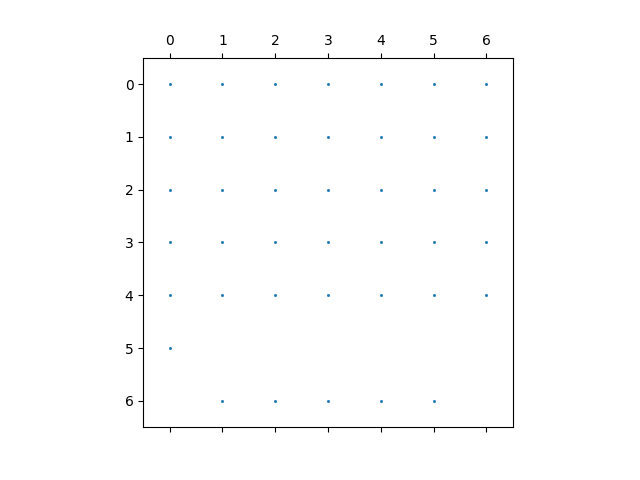
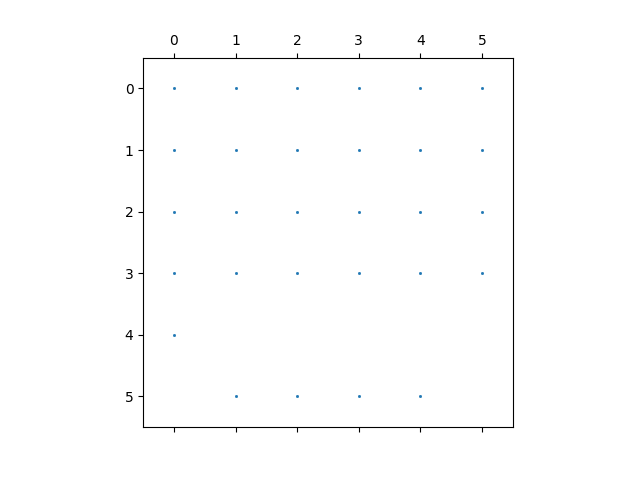
refactoring

diff --git a/chebyshev/boundary.py b/chebyshev/boundary.py
@@ -1,10 +1,7 @@
-from dataclasses import dataclass
-import logging
 import numpy.polynomial.chebyshev as cheb
 import numpy as np
-
-from chebyshev.core import BoundaryCondition
 from .element import Degree
+
 class Boundary(Degree):
     def __init__(self,degree:int) -> None:
         super().__init__(degree)
@@ -46,92 +43,3 @@ def degree_mat_multip(degvec:np.ndarray,bdrmat:np.ndarray):
     bdrdeg = degvec.reshape([1,-1,1])*np.stack([bdrmat],axis = 1)
     bdrdeg = bdrdeg.reshape([bdrdeg.shape[0],-1])
     return bdrdeg
-                      
-            
-class BoundaryConditionElementFactory:
-    def __init__(self,bc:BoundaryCondition,boundary_values:Value,outside_degree:int = 1) -> None:
-        self.boundary_condition = bc
-        self.boundary_values = boundary_values
-        self.outside_degree = outside_degree
-        
-    def generate_element(self,left_most_degree:int,right_most_degree:int):
-        
-        left_most_left = self.boundary_values.left[:left_most_degree]
-        right_most_right = self.boundary_values.right[:right_most_degree]
-        return BoundaryConditionElement(left_most_left,right_most_right,\
-            self.boundary_condition.B0,self.boundary_condition.B1,self.boundary_condition.c)
-        
-class BoundaryElementFactory(Boundary):
-    def __init__(self,degree:int) -> None:
-        self.degree = degree
-        self.center = np.empty((self.degree,self.degree),dtype = float)  
-        self.right_cross = np.empty((self.degree,self.degree),dtype = float)
-        self.left_cross = np.empty((self.degree,self.degree),dtype = float)
-        self.value = Value(degree)
-        self.filledup = False
-    def fillup(self,):
-        self.value.fillup()
-        for i,j in self.degree_index_product(2):
-            self.center[i,j] =  self.value.right[i]*self.value.right[j]/2 - self.value.left[i]*self.value.left[j]/2
-            self.right_cross[i,j] =  -self.value.left[i]*self.value.right[j]/2
-            self.left_cross[i,j] =  self.value.right[i]*self.value.left[j]/2
-        self.filledup = True
-    def generate_element(self,degree1:int,degree2:int,degree3:int,):
-        bcross = self.left_cross[:degree1,:degree2]
-        fcross = self.right_cross[:degree3,:degree2]
-        base = self.center[:degree2,:degree2]  
-        # if degree2==2:
-        #     logging.info(f'Center = \n{base}')
-        
-        return BoundaryElement(bcross,base,fcross)
-    def create_boundary_condition_element_factory(self,bc:BoundaryCondition,):
-        return BoundaryConditionElementFactory(bc,self.value)
-def eye_kron_multip(vec:np.ndarray,eyevec:np.ndarray):
-    if vec.size == 0:
-        return np.empty((0,eyevec.shape[1]*vec.shape[1]))
-    vec1 =  vec.reshape([vec.shape[0],1,vec.shape[1],1])*eyevec
-    return vec1.reshape([vec.shape[0]*eyevec.shape[1],-1])
-
-
-class BoundaryElement:
-    left_cross_element:np.ndarray  # rd x cd
-    base_element:np.ndarray # cd x cd
-    right_cross_element:np.ndarray  # ld x cd
-    def __init__(self,left_cross_element:np.ndarray ,base_element:np.ndarray,right_cross_element:np.ndarray) -> None:
-        self.right_cross_element = right_cross_element
-        self.base_element = base_element
-        self.left_cross_element = left_cross_element
-    def to_matrix_form(self,dim:int)->'BoundaryElementMatrices':
-        eye = np.eye(dim).reshape([1,dim,1,dim])
-        lmat,cmat,rmat = (eye_kron_multip(vec,eye) for vec in (self.left_cross_element,self.base_element,self.right_cross_element))
-        return BoundaryElementMatrices(lmat,cmat,rmat)
-class BaseBoundaryElement(BoundaryElement):
-    base_element:np.ndarray
-    def __init__(self,base_element:np.ndarray,) -> None:
-        d = base_element.shape[1]
-        super().__init__(np.empty((0,d)),base_element,np.empty((0,d)))
-        
-    
-@dataclass
-class BoundaryElementMatrices:
-    mat_left:np.ndarray
-    mat_center:np.ndarray
-    mat_right:np.ndarray
-    
-
-@dataclass
-class BoundaryConditionElementMatrices:
-    mat_b0:np.ndarray
-    mat_b1:np.ndarray
-    rhs_c:np.ndarray
-
-class BoundaryConditionElement:
-    def __init__(self,left_most_left:np.ndarray,right_most_right:np.ndarray,\
-                        b0:np.ndarray,b1:np.ndarray,c:np.ndarray) -> None:
-            self.mat_left_most_left = left_most_left
-            self.mat_right_most_right = right_most_right
-            self.b0,self.b1,self.c = b0,b1,c
-    def to_matrix_form(self,)->'BoundaryConditionElementMatrices':
-        b0_interior = degree_mat_multip(self.mat_left_most_left,self.b0)
-        b1_interior = degree_mat_multip(self.mat_right_most_right,self.b1)
-        return BoundaryConditionElementMatrices(b0_interior,b1_interior,self.c)

diff --git a/solver/boundary.py b/solver/boundary.py
@@ -1,0 +1,94 @@
+from dataclasses import dataclass
+import numpy.polynomial.chebyshev as cheb
+import numpy as np
+from .core import BoundaryCondition
+from chebyshev import Value,Boundary,degree_mat_multip
+                      
+            
+class BoundaryConditionElementFactory:
+    def __init__(self,bc:BoundaryCondition,boundary_values:Value,outside_degree:int = 1) -> None:
+        self.boundary_condition = bc
+        self.boundary_values = boundary_values
+        self.outside_degree = outside_degree
+        
+    def generate_element(self,left_most_degree:int,right_most_degree:int):
+        
+        left_most_left = self.boundary_values.left[:left_most_degree]
+        right_most_right = self.boundary_values.right[:right_most_degree]
+        return BoundaryConditionElement(left_most_left,right_most_right,\
+            self.boundary_condition.B0,self.boundary_condition.B1,self.boundary_condition.c)
+        
+class BoundaryElementFactory(Boundary):
+    def __init__(self,degree:int) -> None:
+        self.degree = degree
+        self.center = np.empty((self.degree,self.degree),dtype = float)  
+        self.right_cross = np.empty((self.degree,self.degree),dtype = float)
+        self.left_cross = np.empty((self.degree,self.degree),dtype = float)
+        self.value = Value(degree)
+        self.filledup = False
+    def fillup(self,):
+        self.value.fillup()
+        for i,j in self.degree_index_product(2):
+            self.center[i,j] =  self.value.right[i]*self.value.right[j]/2 - self.value.left[i]*self.value.left[j]/2
+            self.right_cross[i,j] =  -self.value.left[i]*self.value.right[j]/2
+            self.left_cross[i,j] =  self.value.right[i]*self.value.left[j]/2
+        self.filledup = True
+    def generate_element(self,degree1:int,degree2:int,degree3:int,):
+        bcross = self.left_cross[:degree1,:degree2]
+        fcross = self.right_cross[:degree3,:degree2]
+        base = self.center[:degree2,:degree2]  
+        # if degree2==2:
+        #     logging.info(f'Center = \n{base}')
+        
+        return BoundaryElement(bcross,base,fcross)
+    def create_boundary_condition_element_factory(self,bc:BoundaryCondition,):
+        return BoundaryConditionElementFactory(bc,self.value)
+def eye_kron_multip(vec:np.ndarray,eyevec:np.ndarray):
+    if vec.size == 0:
+        return np.empty((0,eyevec.shape[1]*vec.shape[1]))
+    vec1 =  vec.reshape([vec.shape[0],1,vec.shape[1],1])*eyevec
+    return vec1.reshape([vec.shape[0]*eyevec.shape[1],-1])
+
+
+class BoundaryElement:
+    left_cross_element:np.ndarray  # rd x cd
+    base_element:np.ndarray # cd x cd
+    right_cross_element:np.ndarray  # ld x cd
+    def __init__(self,left_cross_element:np.ndarray ,base_element:np.ndarray,right_cross_element:np.ndarray) -> None:
+        self.right_cross_element = right_cross_element
+        self.base_element = base_element
+        self.left_cross_element = left_cross_element
+    def to_matrix_form(self,dim:int)->'BoundaryElementMatrices':
+        eye = np.eye(dim).reshape([1,dim,1,dim])
+        lmat,cmat,rmat = (eye_kron_multip(vec,eye) for vec in (self.left_cross_element,self.base_element,self.right_cross_element))
+        return BoundaryElementMatrices(lmat,cmat,rmat)
+class BaseBoundaryElement(BoundaryElement):
+    base_element:np.ndarray
+    def __init__(self,base_element:np.ndarray,) -> None:
+        d = base_element.shape[1]
+        super().__init__(np.empty((0,d)),base_element,np.empty((0,d)))
+        
+    
+@dataclass
+class BoundaryElementMatrices:
+    mat_left:np.ndarray
+    mat_center:np.ndarray
+    mat_right:np.ndarray
+    
+
+@dataclass
+class BoundaryConditionElementMatrices:
+    mat_b0:np.ndarray
+    mat_b1:np.ndarray
+    rhs_c:np.ndarray
+
+class BoundaryConditionElement:
+    def __init__(self,left_most_left:np.ndarray,right_most_right:np.ndarray,\
+                        b0:np.ndarray,b1:np.ndarray,c:np.ndarray) -> None:
+            self.mat_left_most_left = left_most_left
+            self.mat_right_most_right = right_most_right
+            self.b0,self.b1,self.c = b0,b1,c
+    def to_matrix_form(self,)->'BoundaryConditionElementMatrices':
+        b0_interior = degree_mat_multip(self.mat_left_most_left,self.b0)
+        b1_interior = degree_mat_multip(self.mat_right_most_right,self.b1)
+        return BoundaryConditionElementMatrices(b0_interior,b1_interior,self.c)

diff --git a/solver/interior.py b/solver/interior.py
@@ -1,35 +1,6 @@
 from dataclasses import dataclass
-import logging
-from .element  import Degree
-import numpy.polynomial.chebyshev as cheb
 import numpy as np
-from .interval import ChebyshevInterval
-def quadrature(*degrees:int, first_derivative:bool = False):
-    y = np.ones([1],dtype = float)
-    for i,deg in enumerate(degrees):
-        x = np.zeros((deg+1),dtype = float)
-        x[deg] = 1
-        if i == 0 and first_derivative:
-            x = cheb.chebder(x)
-        y = cheb.chebmul(y,x)
-    yint = cheb.chebint(y)
-    return cheb.chebval(1,yint) - cheb.chebval(-1,yint)
-    
-
-class QuadratureTensor(Degree):
-    def __init__(self,degree:int) -> None:
-        super().__init__(degree)
-        self.tri_quads = np.empty((self.degree,self.degree,self.degree),dtype = float)
-        self.der_dub_quads = np.empty((self.degree,self.degree,),dtype = float)
-        self.dub_quads = np.empty((self.degree,self.degree,),dtype = float)
-        self.filledup = False
-    def fillup(self,):
-        for i,j,k in self.degree_index_product(3):
-            self.tri_quads[i,j,k] = -quadrature(i,j,k)
-        for i,j in self.degree_index_product(2):
-            self.dub_quads[i,j] = quadrature(i,j)
-            self.der_dub_quads[i,j] = -quadrature(i,j,first_derivative=True)
-        self.filledup = True
+from chebyshev import ChebyshevInterval,QuadratureTensor
     
 
 class InteriorElement:
@@ -42,10 +13,7 @@ class InteriorElement:
         self.rhs_element = rhs_element    
     def to_matrix_form(self,):
         dim = self.rhs_element.shape[1]
-        deg = self.mat_element.shape[1]
-        # non-adjoint
-        # mat = self.mat_element.reshape([-1,deg,dim,dim]).transpose((0,2,1,3)).reshape([-1,deg*dim])
-        
+        deg = self.mat_element.shape[1]        
         # takes the transpose for adjoint
         mat = self.mat_element.reshape([-1,deg,dim,dim]).transpose((0,3,1,2)).reshape([-1,deg*dim]) 
         rhs = self.rhs_element.flatten()

diff --git a/examples/global_eq.py b/examples/global_eq.py
@@ -1,18 +1,15 @@
 import os
 import numpy as np
-from chebyshev.core import BoundaryCondition
-from chebyshev.glbsys import SparseGlobalSystem,GlobalSysAllocator
-from chebyshev.eqgen import LocalEquationFactory
-from chebyshev.linsolve import GlobalSystemSolver
-from chebyshev.refinement import Refiner
-from chebyshev.funs import NumericType,ListOfFuns
-from chebyshev.interval import GridwiseChebyshev
+from solver.core import BoundaryCondition
+from solver.glbsys import SparseGlobalSystem,GlobalSysAllocator
+from solver.eqgen import LocalEquationFactory
+from solver.linsolve import GlobalSystemSolver
+from chebyshev import ListOfFuns,GridwiseChebyshev,NumericType
 import logging
-from chebyshev.defaults import refinement_scheme
 import matplotlib.pyplot as plt
 from examples.nprint import MatPrinter
 from examples.plotter import GridwiseChebyshevPlotter
-from fldrsys.foldersys import OutputsFolders
+from fldrsys.folders import OutputsFolders
 logging.basicConfig(level=logging.INFO)
 
 
@@ -23,7 +20,7 @@ def rhsfun(x:NumericType):
     return np.stack([x**(i+1) for i in range(dim)],axis = 1).reshape([-1,dim])
 def main():    
     lof = ListOfFuns(matfun,rhsfun).flatten()
-    degree = 5
+    degree = 4
     max_degree = degree
     gcheb = GridwiseChebyshev.from_function(lof,degree,0,1)
     np.random.seed(0)

diff --git a/chebyshev/quadrature.py b/chebyshev/quadrature.py
@@ -1,0 +1,30 @@
+from .element  import Degree
+import numpy.polynomial.chebyshev as cheb
+import numpy as np
+
+def quadfun(*degrees:int, first_derivative:bool = False):
+    y = np.ones([1],dtype = float)
+    for i,deg in enumerate(degrees):
+        x = np.zeros((deg+1),dtype = float)
+        x[deg] = 1
+        if i == 0 and first_derivative:
+            x = cheb.chebder(x)
+        y = cheb.chebmul(y,x)
+    yint = cheb.chebint(y)
+    return cheb.chebval(1,yint) - cheb.chebval(-1,yint)
+    
+
+class QuadratureTensor(Degree):
+    def __init__(self,degree:int) -> None:
+        super().__init__(degree)
+        self.tri_quads = np.empty((self.degree,self.degree,self.degree),dtype = float)
+        self.der_dub_quads = np.empty((self.degree,self.degree,),dtype = float)
+        self.dub_quads = np.empty((self.degree,self.degree,),dtype = float)
+        self.filledup = False
+    def fillup(self,):
+        for i,j,k in self.degree_index_product(3):
+            self.tri_quads[i,j,k] = -quadfun(i,j,k)
+        for i,j in self.degree_index_product(2):
+            self.dub_quads[i,j] = quadfun(i,j)
+            self.der_dub_quads[i,j] = -quadfun(i,j,first_derivative=True)
+        self.filledup = True

diff --git a/solver/eqgen.py b/solver/eqgen.py
@@ -1,10 +1,8 @@
-from chebyshev.core import BoundaryCondition
-from chebyshev.matalloc import BlockColumns, TriRowColumn
+from .core import BoundaryCondition
+from .matalloc import BlockColumns, TriRowColumn
 from .boundary import BoundaryElementFactory
 from .interior import InteriorElementFactory
-from .interval import ChebyshevInterval
-from .funs import FlatListOfFuns
-
+from chebyshev import FlatListOfFuns,ChebyshevInterval
 
 class LocalEquationFactory:
     def __init__(self,dim:int,max_degree:int,boundary_condition:BoundaryCondition) -> None:        

diff --git a/solver/glbsys.py b/solver/glbsys.py
@@ -3,9 +3,8 @@ from .matalloc import BlockedMatrixFrame
 import numpy as np
 from scipy.sparse import lil_matrix
 from .eqgen import LocalEquationFactory
-from chebyshev.matalloc import BlockedMatrixFrame
-from .interval import GridwiseChebyshev
-from .funs import FlatListOfFuns
+from .matalloc import BlockedMatrixFrame
+from chebyshev import GridwiseChebyshev,FlatListOfFuns
 
 class GlobalSysAllocator:
     def __init__(self,dim:int,funs:FlatListOfFuns,lcleq:LocalEquationFactory) -> None:

diff --git a/solver/core.py b/solver/core.py
@@ -1,10 +1,9 @@
 from dataclasses import dataclass
 import logging
-from typing import  List, Tuple
-from .interval import GridwiseChebyshev,ChebyshevInterval
-from .funs import NumericFunType,ListOfFuns,FlatListOfFuns
-from .interpolate import ErrorEstimator
+from typing import   Tuple
+from chebyshev import  GridwiseChebyshev,NumericFunType,ListOfFuns
 import numpy as np
+
 def is_square(x:np.ndarray):
     if x.ndim != 2:
         return False

diff --git a/solver/linsolve.py b/solver/linsolve.py
@@ -1,8 +1,7 @@
-import logging
 from scipy.sparse.linalg import spsolve
 import numpy as np
 from .glbsys import SparseGlobalSystem
-from .interval import GridwiseChebyshev
+from chebyshev import GridwiseChebyshev
 class GlobalSystemSolver(SparseGlobalSystem):
     def __init__(self,spglblsys:SparseGlobalSystem) -> None:
         self.__dict__.update(spglblsys.__dict__)

diff --git a/chebyshev/interval.py b/chebyshev/interval.py
@@ -2,7 +2,7 @@ import logging
 from typing import List
 import numpy as np
 from .interpolate import coeffevl,coeffgen
-from chebyshev.funs import FlatListOfFuns,NumericType
+from .funs import FlatListOfFuns,NumericType
 
 class Interval:
     def __init__(self,a:float,b:float,) -> None:

diff --git a/chebyshev/__init__.py b/chebyshev/__init__.py
@@ -1,0 +1,5 @@
+from .interval import GridwiseChebyshev,ChebyshevInterval
+from .funs import NumericFunType,ListOfFuns,FlatListOfFuns,NumericType
+from .interpolate import ErrorEstimator
+from .boundary import Value,Boundary,degree_mat_multip
+from .quadrature import QuadratureTensor

diff --git a/chebyshev/refinement.py b/chebyshev/refinement.py
@@ -1,4 +1,4 @@
-from typing import  Generator, List, Tuple
+from typing import  Generator, List
 from .interval import GridwiseChebyshev,ChebyshevInterval
 from .funs import FlatListOfFuns
 from .interpolate import ErrorEstimator
